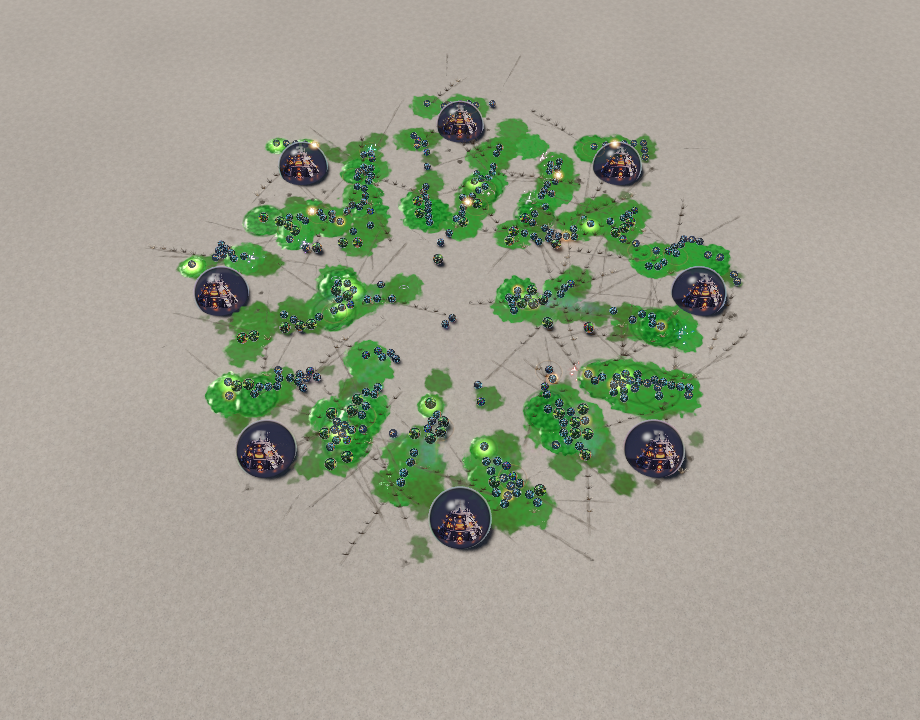
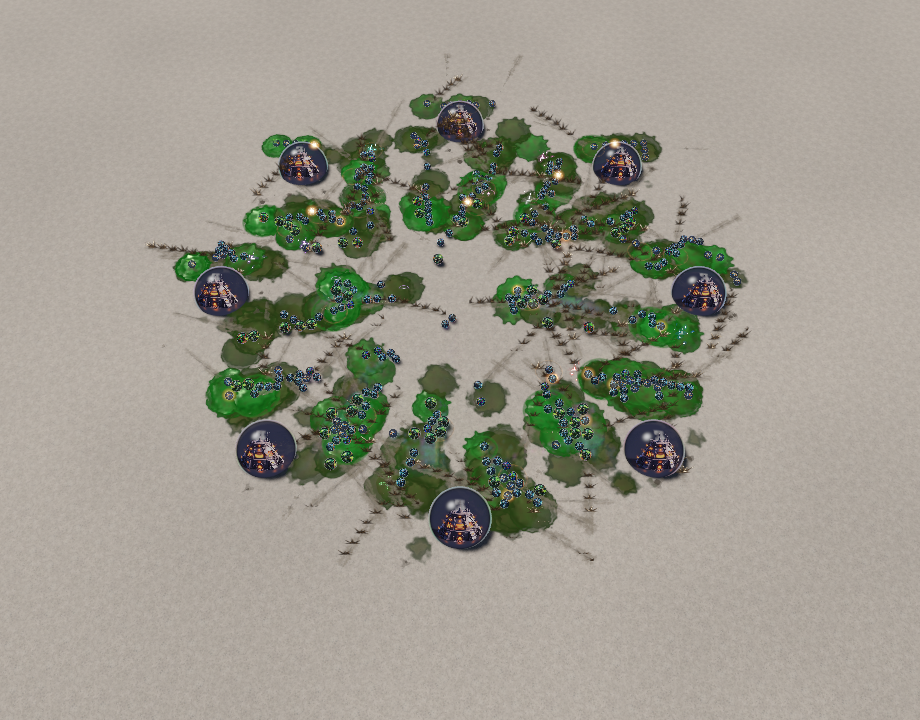
docs(effects WP6c round 4): test results, round-4 crowd capture, acid sheets after the stain fix
- slice_review "Round 4": the stain fix and why, GPU figures on radv and lavapipe, the other
  test results (run unlocked at -j 4 under nice 10; no cargo gate), item 6 judged on the new
  crowd frame for all three effects; implementer result: accept, with watch points.
- stress_capture_400.png re-taken with the round-4 data as round 3 (debug frame_budget,
  lavapipe under Xvfb, scratch catalog naming the two lab effects); stress_capture.txt figures.
- Packet: the stain's size and reason, re-sampled colours, the new crowd frame and the fog
  capture; acid contact sheet and sequence re-taken (lavapipe, debug); plan round-4 note.

Claude-Session: https://claude.ai/code/session_01Tj7a5XZ4mBxWXnyoUg8xVU

Changed region(s): [[0.1522, 0.0917, 0.8217, 0.7944], [0.3652, 0.7333, 0.3957, 0.7944], [0.7304, 0.6417, 0.7609, 0.6722]]

diff --git a/docs/evidence/effects/review/slice_review.md b/docs/evidence/effects/review/slice_review.md
@@ -310,28 +310,60 @@ collar. Ledger $106.12 of $200.
 Evidence: the round-4 contact sheets, sequences and the new fog sheet in this directory (lavapipe, Mesa software
 Vulkan, debug build of `battle_capture`, Xvfb, 2026-11-10: the same path as round 3), judged cell by cell,
 cropped and enlarged (full-resolution lab frames for the close checks), with stain colours sampled along a ray
-from the centre (3×3 averages of the sRGB frame, bright ground, close zoom). The crowd capture was **not**
-re-taken in round 4 (it is round 3's, with the scratch catalog); item 6 is judged on the sheets and on round 3's
-frame and is marked accordingly. Strict reading of the round-3 review's ranked changes: anything that still reads
-as a tell is a reject.
+from the centre (3×3 averages of the sRGB frame, bright ground, close zoom). The crowd capture
+[`stress_capture_400.png`](stress_capture_400.png) is re-taken with the final round-4 data the same way as round 3
+(debug `frame_budget`, lavapipe under Xvfb: the driver and build of the sheets; a scratch copy of `assets/` naming
+the two lab effects for their units; [`stress_capture.txt`](stress_capture.txt), round-4 paragraph), judged whole
+and cropped at 2–2.7×. Strict reading of the round-3 review's ranked changes: anything that still reads as a tell
+is a reject.
+
+**Fix after the first test run (2026-11-11).** The round-4 stain (1.14 of the reach) failed the footprint test on
+both drivers: its ragged edge ran a median 4 px and at most 11.4 px (of 87 at default zoom) beyond the reach. The
+stain is `Critical`, and a Critical layer marks the damage area (plan §10.2, Amendment 2), so the stain was
+fixed, not the test: it is now 0.98 of the reach. A size of 1.02 passed the front-age shot but its dried fringe
+(darker, so its faint parts pass the 16-level threshold) still lay about 4 px beyond the reach at 1.4 s, so the
+footprint test now also takes a Critical-only shot once every non-decal layer has ended and holds the lasting
+marks to the same 2 px. The lingering check's decal margin was a disc of the decal's half size; a decal is a
+box whose texture may reach into its corners, so the margin is now the box's corner (half extents the size and
+the size times the width). The acid sheets and sequence were re-taken after the fix; the other sheets are as
+published on `4a0efda`.
+
+GPU figures (`effect_slice_gpu_tests.rs` through the harness, 2026-11-11; radv on the RX 580 and lavapipe give the
+same figures within 0.04 px; goldens re-recorded for all three effects, see the hand-back):
+
+| Effect | Footprint | Coverage of the full-damage disc at peak | Pop (largest change after the impact) | Lingering |
+|---|---|---|---|---|
+| `shell_impact` | 99 % of 72 rays within ±2 px of the reach, mean −0.66 px (radv) / −0.70 px (lavapipe), largest overshoot +0.44 px; no lasting Critical mark | 100 % | 1.45/255 | 0/255 after the end |
+| `acid_burst` | 100 % of 72 rays within ±2 px, mean −0.62 px, largest overshoot +0.28 px; the dried stain's largest overshoot −2.88 px (inside the reach) | 87 % | 0.66/255 | 0/255 after the end |
+| `spine_line` | marks start −0.65 px and end +0.31 px from the line's projected ends | 74 % (least point 42 %) | 0.74/255 | 0/255 after the end |
+| `spine_line`, seen only from its fifth point (R6) | 4 325 (radv) / 4 330 (lavapipe) lit pixels from point 4 on, 0 more than 1.0 before it | | | |
+
+Other tests (2026-11-11, unlocked at `-j 4` under `nice -n 10` because package gates held the gate lock; no
+`cargo gate`): client lib `effects` 44 passed (with
+`a_partly_seen_line_is_clipped_to_the_seen_run_around_each_instance`); `effect_catalog_tests` 22,
+`effect_runtime_tests` 15, `battle_fog_tests` 23; `client_diagnostics` lib `effect_lab` 3;
+`concealment_gpu_tests` 1 (harness); `sync_steady_state_tests` 8; `smog_golden_tests` 17;
+`dependency_direction_tests` 2; `workspace_checks` 74 unit and 23 charter; `gate` `suite_catalog_tests` 7; clippy `-D warnings` on
+`client` and `client_diagnostics` (all targets) clean; `sync_allocation_count_tests` (valgrind, triggered by the
+`effects/**` change) 10 passed, run alone.
 
 ### `shell_impact`
 
 | # | Item | Verdict | Reason |
 |---|---|---|---|
 | 1–5, 7 | All | Accept | Unchanged except the two polish items: the shock band's width now wavers visibly around the circle while its outer edge stays on the reach (sequence frames 2–6); the ground dust starts at 0.12 s, so the ring races out over clean ground. Char core, streak mark, timing and fall-off as in round 3. The regular streak fringe (round-3 optional 2) remains, recorded for the scale-out. |
-| 6 | Crowd | Accept (round 3's frame) | Not re-taken; the shell's look in a crowd is unchanged apart from the ring's width. |
+| 6 | Crowd | Accept | Round-4 frame: shock rings and soot marks as in round 3, every unit visible. |
 
 ### `acid_burst`
 
 | # | Item | Verdict | Reason |
 |---|---|---|---|
-| 1 | Reads at gameplay zoom | Accept | From frame 0 a ragged dark-green stain of about 0.9 of the reach, at full size by about 0.12 s and holding the red 2.2 circle (rows 2 and 4) until erosion starts at about 1.8 s; no contraction when the front leaves (sequence frames 8–10). |
+| 1 | Reads at gameplay zoom | Accept | From frame 0 a ragged dark-green stain, at full size by about 0.12 s, its edge just inside the red 2.2 circle (rows 2 and 4; a thin band of ground shows between them in places once the front has gone) and held until erosion starts at about 1.8 s; no contraction when the front leaves (sequence frames 8–10). The front's dark lip marks the reach while it lasts; the stain never draws beyond it (GPU test, wet and dried). |
 | 2 | Layered | Accept | Light, crown (opaque dark-wet body with lime highlights), hot core, front lip, dark edge ring, eleven globs on arcs (visible at default zoom, sequence frames 1–6), spray, fumes rising off the stain (visible as a pale wisp above it at 0.48–0.9 s), liquid stain, wet centre. |
 | 3 | Timing | Accept | Peak at frames 0–1; stain olive-green at 0.9 s and olive-brown at 1.8 s (samples in the packet), erodes from its edge and holes from about 1.8 s, gone at 6 s. |
 | 4 | No tells of cheapness | Accept, with two watch points | Relief and a dark wet rim at every age; relief varies (flat pools and swells, no polka dots); no glass rim, no pale gap, no gel oval at frame 0. Watch points for the reviewer: (a) the crown's first frames are a symmetric three-pronged splash seen from above; at close zoom it can read as a "Y" (rows 3 and 7, ages 0–0.18 s); (b) the dry stain at 3.0 s is a fairly even olive with soft relief, crust texture is modest. |
 | 5 | Value and colour | Accept | Lime only in the first frames and at the centre; emerald body with a darker, more saturated rim band (sampled darker than the body at 0.9 s and 1.8 s); olive-brown crust by 1.8 s; separates from teal by value and hue. |
-| 6 | Crowd | Not judged (no round-4 frame) | The rim, kept relief and early olive should remove round 3's pastel fields; this needs the crowd frame to confirm. |
+| 6 | Crowd | Accept, with a watch point | Round-4 frame: the stains are no longer pastel fields. Fresh ones are saturated emerald with a darker rim, older ones dark olive to olive-brown with a darker edge, so the field reads as splashes of different ages rather than one green carpet; every unit stays visible on them. Watch point: where several dried stains overlap they merge into flat olive patches whose relief does not read at this zoom (lily-pad-like shapes). |
 | 7 | Fog | Accept | Anchored at the burst centre; nothing outside the zone. |
 
 ### `spine_line`
@@ -343,9 +375,8 @@ as a tell is a reject.
 | 3 | Timing | Accept | Tears open a frame or two before each clump; clumps shoot up, overshoot, settle, sink from the source end; the sheet now runs to the true end (3.28 s) and the last column is clean. |
 | 4 | No tells of cheapness | Accept, with a watch point | No strokes across the line at any age (single spikes removed, tears run along it); clumps have volume (lit and shadowed flanks, soil collar) and stand about 0.7–0.9 units. Watch point: at close zoom the clumps' outer spikes splay wide, so a row of them can read as a row of spiky crowns; the scar is wider and broken, but its clods read only at close zoom. |
 | 5 | Value and colour | Accept | The newest clump bone-ivory but still shaded; older clumps umber; scar darker than the ground with lighter clods. |
-| 6 | Crowd | Not judged (no round-4 frame) | Round 3's frame shows thin lines; the round-4 scar is wider and needs the crowd frame. |
+| 6 | Crowd | Accept | Round-4 frame: each line reads as a row of dark spike clumps on a soft brown-grey scar, clearly lines of spikes rather than round 3's thin pencil lines; they cross stains and units without hiding them. The faint fissure tails of older lines are thin grey streaks. |
 | 7 | Fog | Accept | Fog sheet: nothing at the attacker; the ground marks and dust end at the fog edge (the cell edge half a spacing before the first seen point), fading in over 0.3; the first seen clump is drawn whole (a first take cut it in half at the edge, fixed), so its outer spikes lean a little over the fogged ground; no pop. |
 
-**Round 4 result (implementer):** `shell_impact` accept; `acid_burst` and `spine_line` accept on items 1–5 and
-7, with the watch points above; item 6 open until a round-4 crowd frame exists. Tests: see the packet and the
-hand-back.
+**Round 4 result (implementer):** accepted, every item for every effect, with the watch points above. The
+independent round-4 review follows on [`independent_review_packet.md`](independent_review_packet.md).

diff --git a/docs/evidence/effects/review/independent_review_packet.md b/docs/evidence/effects/review/independent_review_packet.md
@@ -36,8 +36,8 @@ sequence show the line running out of the fog (section "Fog" below).
 
 | Round-3 finding | What changed |
 |---|---|
-| 1 / ranked change 2: after the front leaves (about 0.36 s) the stain covers only 75–85 % of the reach, with deep bites; it visibly contracts between frames 8 and 10 | The stain is a little larger (1.14 of the reach; its texture's ragged outline lies at the reach) and its erosion **holds the full disc until about 1.8 s** (only a noise-broken edge, threshold 0.10 to 0.12), then dries from its edge and from holes. It is at its full size from about 0.12 s, before the front reaches the reach, so nothing contracts when the front hands over. |
-| 4a / 5 / ranked change 1: from 0.9 s a flat, mottled mid-green moss patch; no darker wet rim at any age | The liquid **keeps its relief as it dries** (the crust keeps 75 % of the relief light; only the wet sheen dries away). A **dark wet rim** is drawn by the liquid material along every edge of the liquid, its outline and the holes it dries into, at every age: a band about 0.1 to 0.2 wide, darker and more saturated than the body (colour ×0.24, 0.44, 0.24 at the edge). Sampled on the round-4 sheet (bright ground, close zoom, a ray from the centre to the right edge, sRGB): at 0.9 s the body is about (61, 112, 53) and the band inside the edge about (63, 96, 51); at 1.8 s the body is about (77, 91, 57) and the band about (69, 80, 53). |
+| 1 / ranked change 2: after the front leaves (about 0.36 s) the stain covers only 75–85 % of the reach, with deep bites; it visibly contracts between frames 8 and 10 | The stain's erosion **holds the full disc until about 1.8 s** (only a noise-broken edge, threshold 0.10 to 0.12), then dries from its edge and from holes. It is at its full size from about 0.12 s, before the front reaches the reach, so nothing contracts when the front hands over. Its size is 0.98 of the reach: a first round-4 take at 1.14 drew the stain up to 11 px (of 87) beyond the reach, which a `Critical` layer must not do (it would show damage where there is none, plan §10.2), so the ragged edge now lies just inside the reach at every age, wet or dried, and the front's dark lip marks the reach itself while it lasts. |
+| 4a / 5 / ranked change 1: from 0.9 s a flat, mottled mid-green moss patch; no darker wet rim at any age | The liquid **keeps its relief as it dries** (the crust keeps 75 % of the relief light; only the wet sheen dries away). A **dark wet rim** is drawn by the liquid material along every edge of the liquid, its outline and the holes it dries into, at every age: a band about 0.1 to 0.2 wide, darker and more saturated than the body (colour ×0.24, 0.44, 0.24 at the edge). Sampled on the round-4 sheet (bright ground, close zoom, a ray from the centre to the right edge, sRGB): at 0.9 s the body is about (57, 113, 50) and the band inside the edge about (62, 96, 50); at 1.8 s the body is about (77, 88, 57) and the band about (70, 80, 53). |
 | 3 note / ranked change 1: the colour is still emerald at 1.8 s; olive only at 4.5 s | The stain's ramp has a wide olive-brown range below the emerald, and the drying curve walks the body there faster: olive-green by 0.9 s, **olive-brown by about 1.8 s** (sample above; round 3 sampled (77, 140, 64) at 1.8 s). |
 | 4b / ranked change 3: the front is a pale, translucent, even glass or soap-bubble rim with a lighter halo; a pale gap between stain and rim | The front's ramp is now a **dark, wet, nearly opaque lip** (opacity 0.80 to 0.96, darkest at its leading edge), with no pale or translucent part; its trailing edge is broken by stronger noise, so its width varies about twofold around the circle. The stain lies under it from the first frame, so no ground shows between them. |
 | 4c: the contraction is a soft pop | See the first row. |
@@ -74,10 +74,18 @@ fogged ground beside the first seen point. Nothing else is drawn on the fogged s
 
 ### Crowd capture, round 4
 
-**Not re-taken in round 4.** [`stress_capture_400.png`](stress_capture_400.png) is still round 3's frame
-(lavapipe, debug, a scratch catalog naming the two effects for their units), so it shows the round-3 looks. The
-implementer handed back before re-taking it; the orchestrator decides whether a round-4 crowd frame is made before
-this review or judged from the sheets (the default-zoom look of one stain is in rows 1 and 5 of the acid sheet).
+[`stress_capture_400.png`](stress_capture_400.png) is re-taken with the round-4 effects (final data, the stain at
+0.98 of the reach), the same way as round 3: debug build of `frame_budget`, lavapipe under Xvfb (the driver and
+build of the contact sheets), a scratch copy of `assets/` whose `units.ron` gives `volatile_tick` and
+`burrow_scorpion` the lab blocks of `crates/client/tests/data/effect_lab_blocks.ron`, tick 150, 200 splashes a
+second; the figures are in [`stress_capture.txt`](stress_capture.txt), round-4 paragraph. Round 3's frame is in
+commit `fd24c31`. The baseline is unchanged (it draws no effect).
+
+### Fog capture, round 4
+
+New in this round, see "Fog (checklist item 7), round 4" above: [`spine_line_fog_contact.png`](spine_line_fog_contact.png)
+with its legend [`spine_line_fog_contact.txt`](spine_line_fog_contact.txt), and
+[`spine_line_fog_sequence.png`](spine_line_fog_sequence.png), the line running out of the viewer's fog.
 
 ## Round 3
 

diff --git a/docs/plans/2026-11-09-effect-visualization.md b/docs/plans/2026-11-09-effect-visualization.md
@@ -1030,7 +1030,11 @@ applies its ranked changes in the client, the catalog's presentation data, the e
   box may be wider than long (a decal's `width` now ranges over (0, 4]).
 - `acid_burst`: the radial ground flash is dropped (it read as a glowing gel oval at frame 0); the stain itself is
   there, thick and at 0.85 of its size, from frame 0. The wet rim is drawn by the liquid material along every edge
-  instead of by the ramp's top, which the drying ramp curve had turned into the brightest emerald.
+  instead of by the ramp's top, which the drying ramp curve had turned into the brightest emerald. The stain
+  stays inside the reach (0.98 of it): a larger stain (1.14) failed the Critical footprint test by up to 11 px,
+  and a Critical layer must not mark ground beyond the damage area, so the stain was fixed rather than the test.
+  The footprint test also holds the lasting Critical marks to the reach once every non-decal layer has ended, and
+  the lingering check measures a decal to its box's corner.
 - `shell_impact` (accepted): only the shock front's width variation (a shader change shared with the acid front)
   and the dust starting after the front; the streak fringe stays recorded for the scale-out.
 - Fog (R6): a partly seen line's ground-hugging layers are clipped to the run of seen points around each
